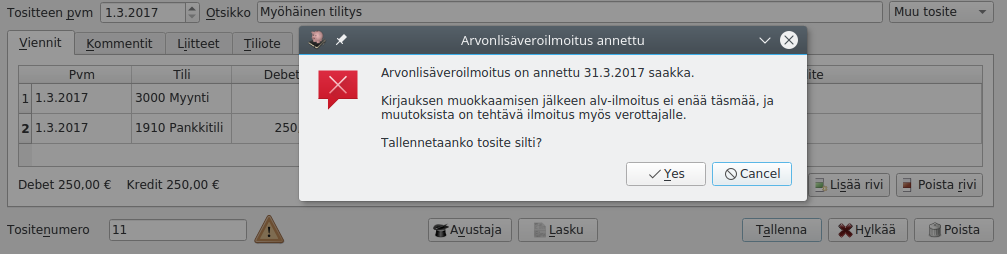
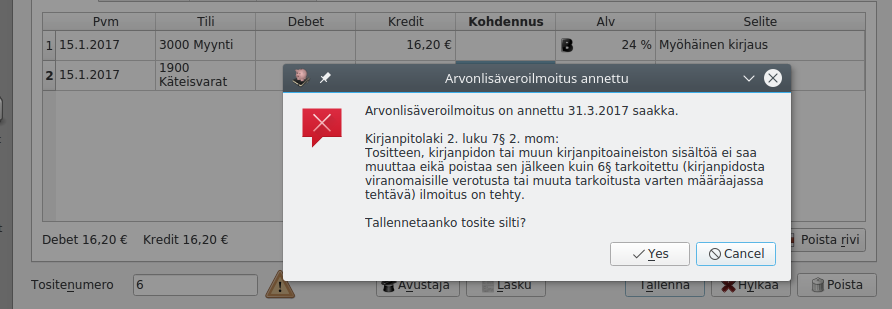
#55 Lukitun tilikauden vapauttaminen

diff --git a/kitupiikki/arkisto/arkistosivu.cpp b/kitupiikki/arkisto/arkistosivu.cpp
@@ -255,9 +255,9 @@ void ArkistoSivu::nykyinenVaihtuuPaivitaNapit()
         ui->vieNappi->setEnabled( arkistoitavissa );
 
 
-        // Muokata voidaan vain viimeistä tilikautta, jos tilinpäätös ei ole valmis
-        ui->muokkaaNappi->setEnabled( kausi.paattyy() == kp()->tilikaudet()->kirjanpitoLoppuu()  &&
-                                      kausi.tilinpaatoksenTila() != Tilikausi::VAHVISTETTU );
+        // Muokata voidaan vain viimeistä tilikautta tai poistaa lukitus
+        ui->muokkaaNappi->setEnabled( kausi.paattyy() == kp()->tilikaudet()->kirjanpitoLoppuu()  ||
+                                     kp()->tilitpaatetty() >= kausi.alkaa() );
     }
     else
     {
@@ -294,7 +294,7 @@ void ArkistoSivu::muokkaa()
     Ui::MuokkaaTilikausi dlgUi;
     dlgUi.setupUi(&dlg);
 
-    Tilikausi kausi = kp()->tilikaudet()->tilikausiIndeksilla( kp()->tilikaudet()->rowCount(QModelIndex()) - 1 );
+    Tilikausi kausi = kp()->tilikaudet()->tilikausiIndeksilla(ui->view->currentIndex().row() );
 
     // Selvitetään, mikä on viimeisin kirjaus
     QDate viimepaiva = kp()->tilitpaatetty();
@@ -315,7 +315,10 @@ void ArkistoSivu::muokkaa()
     }
 
     // Saa poistaa vain, ellei yhtään kirjausta
-    dlgUi.poistaRadio->setEnabled( viimepaiva < kausi.alkaa() );
+    dlgUi.poistaRadio->setEnabled( viimepaiva < kausi.alkaa() && kausi.paattyy() == kp()->tilikaudet()->kirjanpitoLoppuu() );
+    dlgUi.paattyyRadio->setEnabled( kausi.paattyy() == kp()->tilikaudet()->kirjanpitoLoppuu() );
+    dlgUi.peruLukko->setEnabled( kp()->tilitpaatetty() >= kausi.alkaa() );
+    dlgUi.peruLukko->setChecked( kausi.paattyy() != kp()->tilikaudet()->kirjanpitoLoppuu() );
 
     if( viimepaiva < kausi.alkaa() )
         viimepaiva = kausi.alkaa().addDays(1);
@@ -327,8 +330,25 @@ void ArkistoSivu::muokkaa()
     {
         if( dlgUi.poistaRadio->isChecked())
             kp()->tilikaudet()->muokkaaViimeinenTilikausi( QDate());
-        else
+        else if( dlgUi.paattyyRadio->isChecked())
             kp()->tilikaudet()->muokkaaViimeinenTilikausi( dlgUi.paattyyDate->date() );
+        else if( dlgUi.peruLukko->isChecked())
+        {
+            if( QMessageBox::warning(this, tr("Tilikauden lukitsemisen peruminen"),
+                                     tr("Oletko varma, että haluat perua tilikauden lukitsemisen?\n\n"
+                                        "Kaikki tilinpäätökseen liittyvät toimet on tehtävä uudelleen ja tilinpäätös on mahdollisesti "
+                                        "myös vahvistettava uudelleen.\n\n"
+                                        "Kirjanpitolaki 2. luku 7§ 2 mom:\n"
+                                        "Tositteen, kirjanpidon tai muun kirjanpitoaineiston sisältöä ei saa muuttaa tai poistaa "
+                                        "tilinpäätöksen laatimisen jälkeen."), QMessageBox::Yes | QMessageBox::Cancel, QMessageBox::Cancel ) != QMessageBox::Yes)
+                return;
+
+            JsonKentta *json = kp()->tilikaudet()->json( kausi );
+            json->unset("Vahvistettu");
+            kp()->tilikaudet()->tallennaJSON();
+            kp()->asetukset()->aseta("TilitPaatetty", kausi.alkaa().addDays(-1));
+
+        }
     }
 
 }

diff --git a/kitupiikki/kirjaus/kirjauswg.cpp b/kitupiikki/kirjaus/kirjauswg.cpp
@@ -183,8 +183,10 @@ void KirjausWg::tallenna()
     {
         if( QMessageBox::critical(this, tr("Arvonlisäveroilmoitus annettu"),
            tr("Arvonlisäveroilmoitus on annettu %1 saakka.\n\n"
-              "Kirjauksen muokkaamisen jälkeen alv-ilmoitus ei enää täsmää, "
-              "ja muutoksista on tehtävä ilmoitus myös verottajalle.\n\n"
+              "Kirjanpitolaki 2. luku 7§ 2. mom:\n"
+              "Tositteen, kirjanpidon tai muun kirjanpitoaineiston sisältöä ei saa muuttaa eikä "
+              "poistaa sen jälkeen kuin 6§ tarkoitettu (kirjanpidosta viranomaisille verotusta "
+              "tai muuta tarkoitusta varten määräajassa tehtävä) ilmoitus on tehty.\n\n"
               "Tallennetaanko tosite silti?").arg( kp()->asetukset()->pvm("AlvIlmoitus").toString(Qt::SystemLocaleShortDate) ),
             QMessageBox::Yes | QMessageBox::Cancel, QMessageBox::Cancel) != QMessageBox::Yes)
             return;

diff --git a/kitupiikki/main.cpp b/kitupiikki/main.cpp
@@ -44,7 +44,7 @@ int main(int argc, char *argv[])
 #endif
 
     a.setApplicationName("Kitupiikki");
-    a.setApplicationVersion("0.4-beta");
+    a.setApplicationVersion("0.5-devel");
     a.setOrganizationDomain("artoh.github.io");
     a.setOrganizationName("Kitupiikki Kirjanpito");
     a.setWindowIcon( QIcon(":/pic/Possu64.png"));

diff --git a/docs/tilikaudet/arkisto/index.md b/docs/tilikaudet/arkisto/index.md
@@ -2,6 +2,13 @@
 
 Kitupiikki muodostaa kirjanpidosta html-muotoisen sähköisen arkiston. Arkisto muodostetaan ja siihen pääsee Kitupiikistä **Tilikaudet**-välilehden **Arkisto**-painikkeella.
 
+Arkisto on hakemisto, johon kirjanpitoainesto on tallennettu html-muodossa ja tositteet pdf-muodossa. Arkistoa voi lukea millä tahansa selaimella avaamalla hakemistosta **index.html**-tiedoston. Arkisto on suunniteltu niin, että kirjanpidon aineisto on tarkasteltavissa kirjausketju säilyttäen sellaisessa muodossa, joka oletetaan olevan yleisesti käytettävillä ohjelmilla avattavissa vielä vuosikymmenten kuluttua, myös ilman Kitupiikki-ohjelmaa.
+
+!!! note "Huolehdi säilyttämisestä"
+    Huolehdi siitä, että kirjanpitoarkistosi on varmistettu tallentamalle se useammalle fyysiselle medialle, jotka säilyvät käyttökelpoisina koko 10 vuoden säilytysajan.
+
+Sähköistä arkistoa voit käyttää myös kirjanpitoaineiston siirtämiseen esimerkiksi tilintarkastajille.
+
 ![](arkisto.png)
 
 Arkisto sisältää kirjanpidon ([pääkirja](/tulosteet#paakirja), [päiväkirja](/tulosteet#paivakirja), [tositeluettelo](/tulosteet#tositeluettelo) ja -päiväkirja sekä [tililuettelo](/tulosteet#tililuettelo) tositteineen), [taseen](/tulosteet#tase) ja [tuloslaskelman](/tulosteet#tuloslaskelma), [tase-erittelyn](/tulosteet#tase-erittely) sekä mahdollisesti myös muita tilikarttakohtaisia raportteja. Raportti sisällytetään sähköiseen arkistoon [raportin muokkaamisen](/maaritykset/raportit) **Liitä erittely arkistoon**-valinnalla.
@@ -27,12 +34,14 @@ Tällä toiminnolla voit siirtää yhden vuoden arkiston esim. suoraan USB-muist
 Tar-tiedoston avaamiseen tarvitaan Windowsissa erillinen ohjelma, esimerkiksi [7-zip](http://www.7-zip.org/).
 
 !!! info "Tar-tiedostot"
-    Tar-tiedostomuoto on tehty alunperin nauha-asemalle tallentamista varten: se ei tiivistä eikä salaa tiedostoja. Kitupiikin arkistoinnissa käytetään laajasti vakiintuneita ja yleisiä tiedostomuotoja, joiden voi olettaa olevan luettavissa vielä kaukana tulevaisuudessa: html, pdf ja yli 30 vuotta käytössä säilynyt tar.
+    Tar-tiedostomuoto on tehty alunperin nauha-asemalle tallentamista varten: se ei tiivistä eikä salaa tiedostoja. Nykyinen tar-tiedostomuoto on vuodelta 1988.
 
 
 ## Arkiston muuttumattomuuden varmistaminen
 
 Voit varmistaa Kitupiikin luomalla [sha256-tiivisteellä](https://fi.wikipedia.org/wiki/SHA), ettei arkistossa olevia tiedostoja (esimerkiksi tositteita) ole muokattu arkiston muodostamisen jälkeen. Tämä edellyttää kuitenkin, että valvonnassa käytetty tiiviste  on säilytetty turvassa muutoksilta esimerkiksi niin, että tiiviste on tulostettu paperiseen ja allekirjoitettuun tilinpäätösasiakirjaan.
+
+Tässä kuvattua muuttumattomuuden varmistamista tarvittaneen lähinnä vain, mikäli on syytä epäillä, että kirjanpitoa on muutettu jälkikäteen. Kirjanpitolaki kieltää kirjanpitoaineiston muuttamisen tilinpäätöksen laatimisen jälkeen (2. luku 7§). Väärien tai harhaanjohtavien tietojen merkitsemisestä kirjanpitoon rangaistaan sakolla tai vankeudella (Rikoslaki 30. luku 9§ ja 9a§).
 
 !!! danger "Muuttumattomuus varmistetaan tiivistettä vastaan"
     Muuttumattomuuden varmistus perustuu siihen, että tiiviste on turvassa muutokselta, eikä tiivistettä voi väärentää esimerkiksi muuttamalla jälkikäteen tiivisteen sisältävää tilinpäätöksen sivua.
@@ -45,7 +54,7 @@ b3fb35a6e113b98e4eb68a133b575463b05d6a39a9c78fb584ade9e9ef6a7b78  arkisto.sha256
 ```
 Ohjelma tulostaa valvontatiedoston tiivisteen, jota pitää verrata tiedossa olevaan, esimerkiksi tilinpäätökseen tulostettuun tiivisteeseen (katso sivun ensimmäinen kuva).
 
-Valvontatiedosto sisältää kaikkien arkistoon kuuluvien tositteiden ja raporttien - ei kuitenkaan tilinpäätöksen - tiivisteet. Tiivisteet pitää vielä takastaa komennolla **sha256sum -c arkisto.sha256**.
+Valvontatiedosto sisältää kaikkien arkistoon kuuluvien tositteiden ja raporttien - ei kuitenkaan tilinpäätöksen - tiivisteet. Tiivisteet pitää vielä tarkastaa komennolla **sha256sum -c arkisto.sha256**.
 
 ```
 arto@pantteri ~/LatakonUimakerho/arkisto/2018 $ sha256sum -c arkisto.sha256

diff --git a/docs/tilikaudet/tilikaudet/index.md b/docs/tilikaudet/tilikaudet/index.md
@@ -18,3 +18,8 @@ Tilikauden pituus on yleensä 12 kuukautta - poikkeuksellinen, enintään 18 kuu
 ![](muokkaa.png)
 
 **Muokkaa**-painikkeella voit muuttaa *viimeisen* tilikauden päättymispäivää tai poistaa viimeisen tilikauden, jos sillä ei ole yhtään kirjausta. Tilikauden päättymistä ei saa muuttaa aikaisemmaksi kuin tilikauden viimeinen kirjaus.
+
+Voit tarvittaessa myös **perua tilikauden lukitsemisen**. Toiminto on tarkoitettu käytettäväksi vain, jos tilinpäätöstä laadittaessa on vielä tarpeen palata tekemään kirjauksia.
+
+!!! quote "Kirjanpitolaki 2. luku 7§ 2. mom."
+    Tositteen, kirjanpidon tai muun kirjanpitoaineiston sisältöä ei saa muuttaa tai poistaa tilinpäätöksen laatimisen jälkeen. Sisältöä ei saa muuttaa eikä poistaa myöskään sen jälkeen, kun 6 §:ssä tarkoitettu (kirjanpidosta viranomaiselle verotusta tai muuta tarkoitusta varten määräajoin tehtävä) ilmoitus on tehty tai kirjanpitovelvollinen on julkistanut tai antanut ulkopuolisen käyttöön aineistosta laatimansa välitilinpäätöksen tai muun vastaavan asiakirjan.
